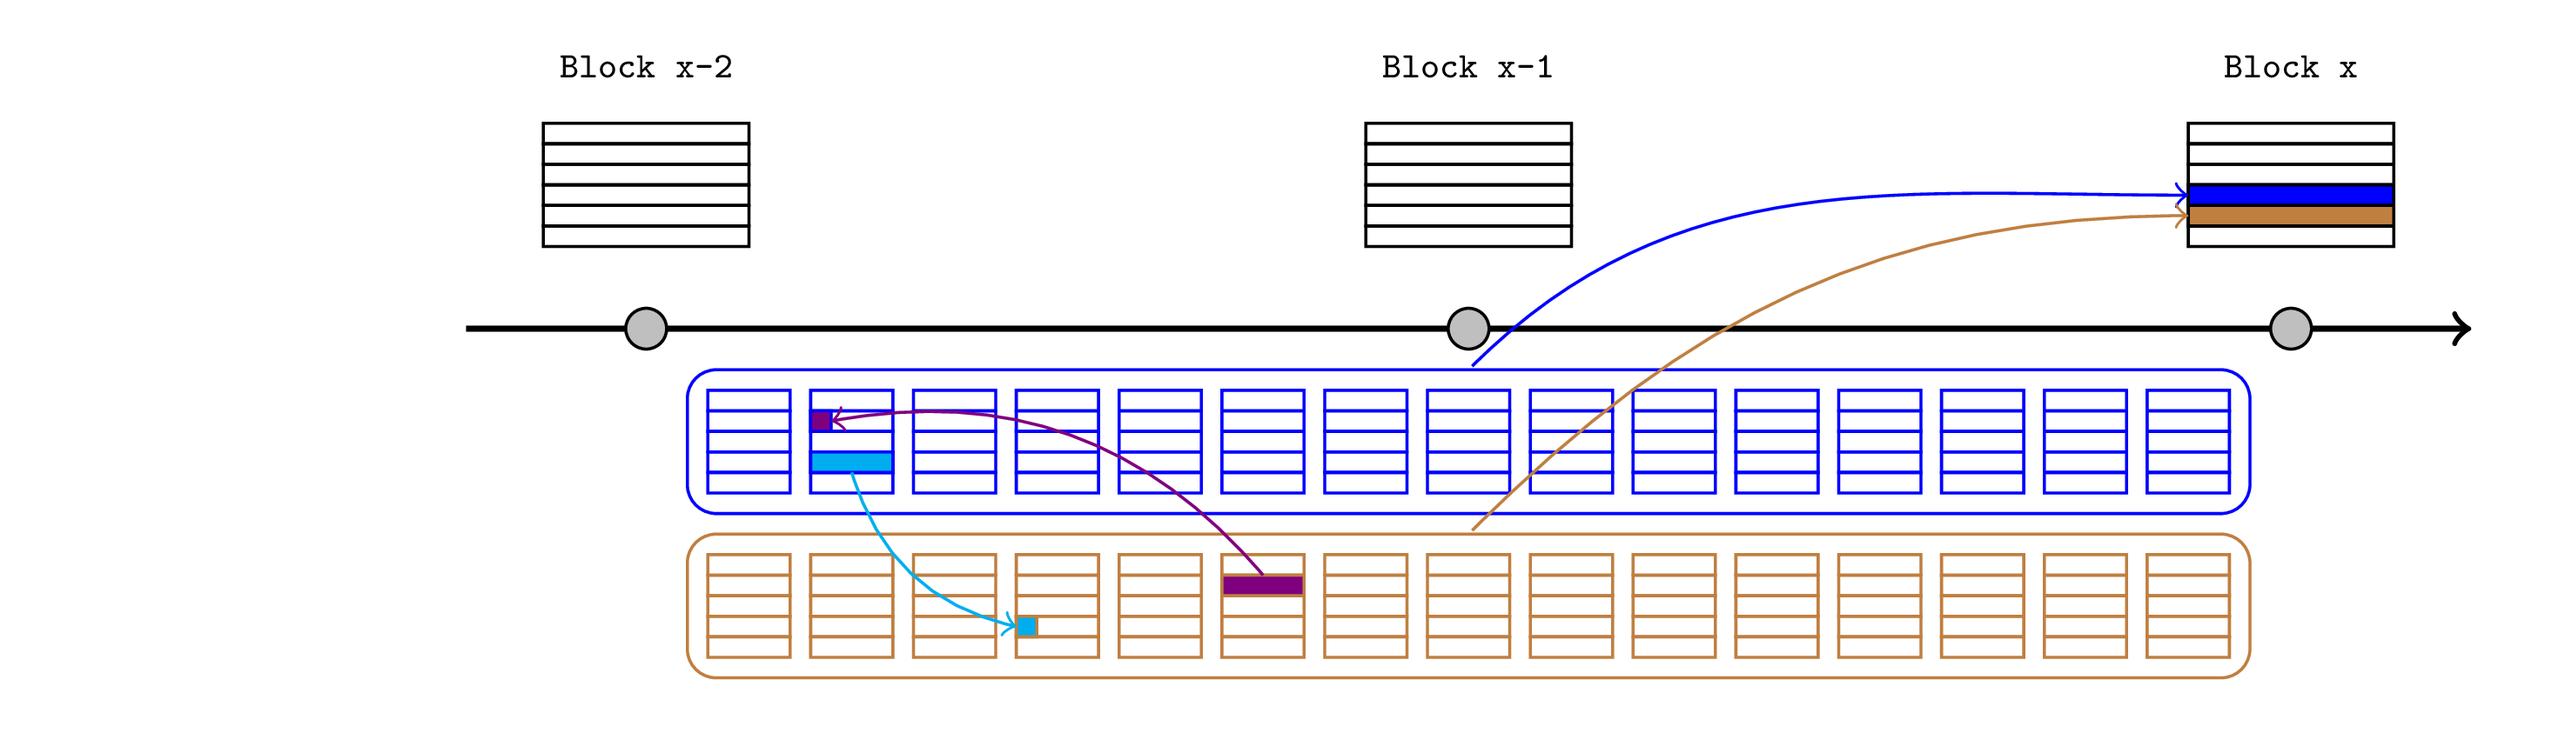
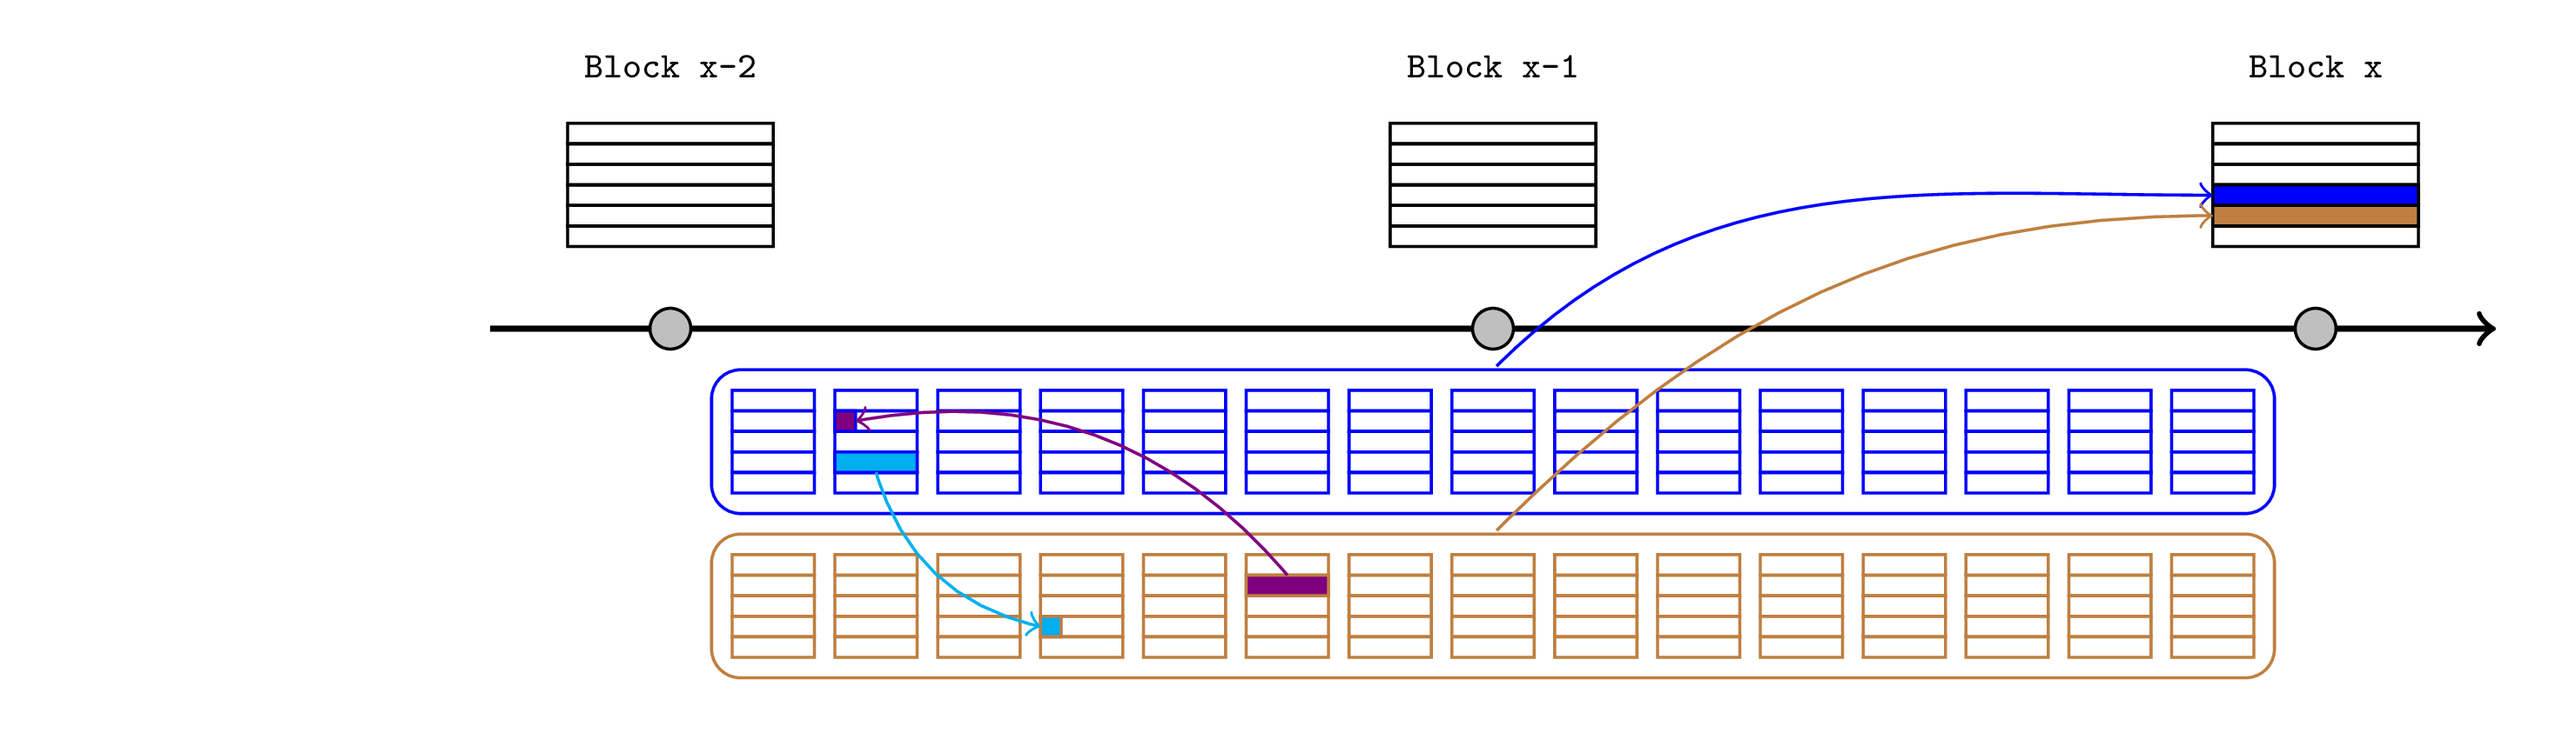
Describe sub publication proving

diff --git a/documentation/provable_assertion_images.tex b/documentation/provable_assertion_images.tex
@@ -71,14 +71,17 @@
     }
 }
 
-\newcommand{\publication}{
+
+% Usage: \partialPublication{startBlock}{endBlock}
+\newcommand{\partialPublication}[2]{
     \node[draw, lOneTx, fill=\rollupColor] at (\pubTx) {};
-    \node[xshift=-0.1cm, yshift=0.1cm] (topLeft) at (l2Tx-\rollupName-0-0.north west) {};
-    \node[xshift=0.1cm, yshift=-0.1cm] (bottomRight) at (l2Tx-\rollupName-\numLTwoBlocks-4.south east) {};
+    \node[xshift=-0.1cm, yshift=0.1cm] (topLeft) at (l2Tx-\rollupName-#1-0.north west) {};
+    \node[xshift=0.1cm, yshift=-0.1cm] (bottomRight) at (l2Tx-\rollupName-#2-4.south east) {};
     \draw[inner sep=0, outer sep=0, rounded corners, \rollupColor] (topLeft) rectangle (bottomRight) {};
     \node[inner sep=0, outer sep=0] (top) at ($(topLeft)!0.5!(bottomRight |- topLeft)$) {};
     \draw[inner sep=0, outer sep=0, ->, \rollupColor] (top) to[in=180] (\pubTx.west);
 }
+\newcommand{\publication}{\partialPublication{0}{\numLTwoBlocks}}
 
 % Introduce L2 chain
 \ifnum \sourceNo = 1
@@ -239,6 +242,26 @@
 
 \end{tikzpicture}
 \fi
+
+% Sub-publication proof
+\ifnum \sourceNo = 9
+\begin{tikzpicture}[framed]
+    \timeline
+    \lOneTransactions
+    \lTwoTransactions
+    % The first partial publication overlaps with L2 block 5. I will remove that block for clarity
+    % There is probably an intelligent way to do this using \clip but I will just overwrite it
+    \node[xshift=-0.05cm, yshift=0.05cm] (topLeft) at (l2Tx-A-5-0.north west) {};
+    \node[xshift=0.05cm, yshift=-0.05cm] (bottomRight) at (l2Tx-A-5-4.south east) {};
+    \fill[white] (topLeft) rectangle (bottomRight);
+
+    \partialPublication{0}{4}
+    \renewcommand{\pubTx}{tx-2-4}
+    \partialPublication{6}{\numLTwoBlocks}
+
+\end{tikzpicture}
+\fi
+
 
 \end{document}
 

diff --git a/documentation/PreemptiveProvableAssertions.md b/documentation/PreemptiveProvableAssertions.md
@@ -227,3 +227,11 @@ Note that there is an extra level of indirection, which introduces a new risk. A
 - The sequencer would lose all transaction fees associated with the discarded rollup B publication, along with any deposited stake.
 
 This mechanism should only be considered if the cost to the sequencer is large enough to deter defecting in this way.
+
+### Sub-publication proving
+
+Now that [sub-slot proving has been demonstrated](https://x.com/SuccinctLabs/status/1924845712921264562), we should consider designs where sequencers provide sub-publication proofs. We could imagine dividing the publication into blocks that come with a publication-time proof, and blocks that are yet to be proven. For simplicity, we could think of this as two different publications transactions (although they do not need to be).
+
+<p align="center"><img src="./provable_assertion_images.9.png"/></p>
+
+It's worth noting that proving any blocks in a publication implies ensuring the entire previous publication is already proven. In this case we could use the realtime proving mechanism, as long as the sequencer only makes cross-chain assertions about transactions in L2 blocks that they know they will be able to prove in time. Of course, blocks that consume or build on the assertion can still be proven after the publication.
